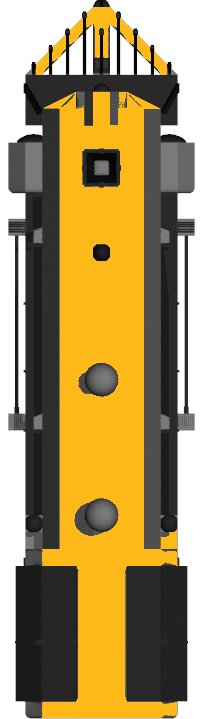
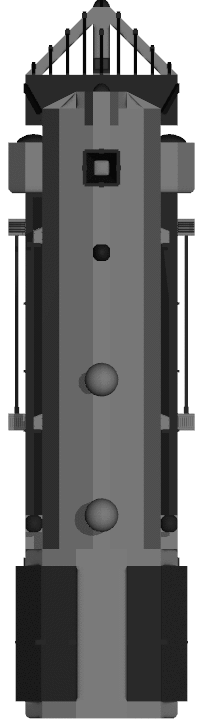
Created randomly colored trains and modified train images

diff --git a/src/simulation/Drawable/DrawableTrain.java b/src/simulation/Drawable/DrawableTrain.java
@@ -88,7 +88,8 @@ public class DrawableTrain implements Movable{
      * Sets up the image fields for the drawable train
      * */
     public void setUpImage(){
-        this.trainImage= new Image("file:src/res/train.png", width, train.getLength() * Simulation.METER_MULTIPLIER, false, false);
+        String col = new String[]{"_blue","_orange","_yellow",""}[((int)(Math.random()*4))];
+        this.trainImage= new Image("file:src/res/train"+col+".png", width, train.getLength() * Simulation.METER_MULTIPLIER, false, false);
         this.trainImageView = new ImageView(trainImage);
         this.params = new SnapshotParameters();
         params.setFill(Color.TRANSPARENT);
